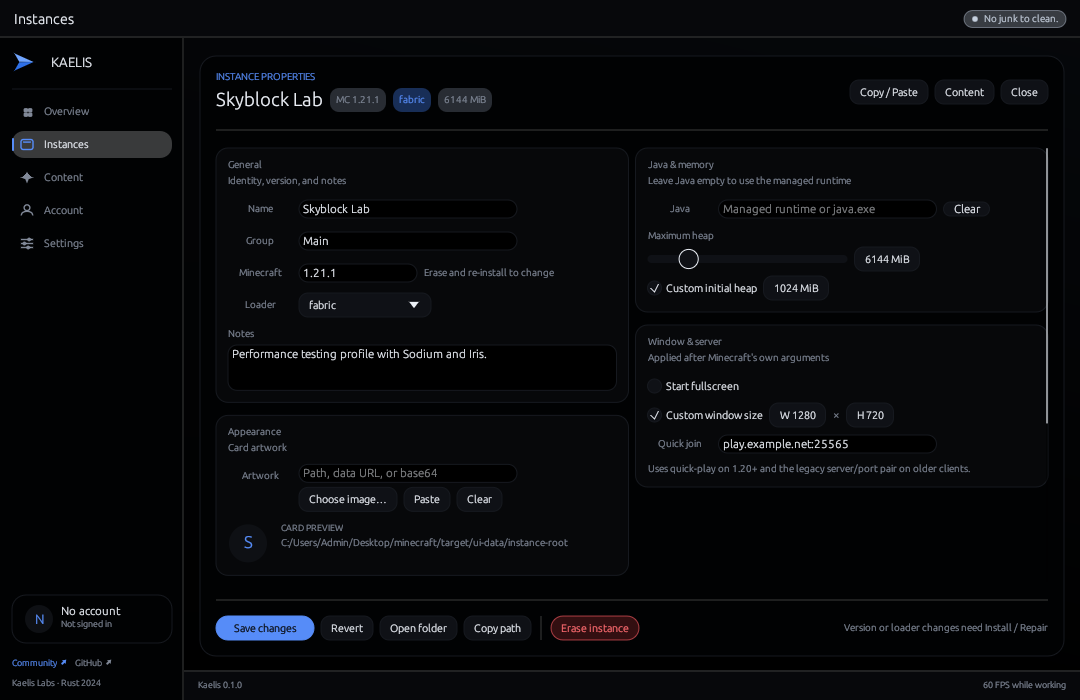
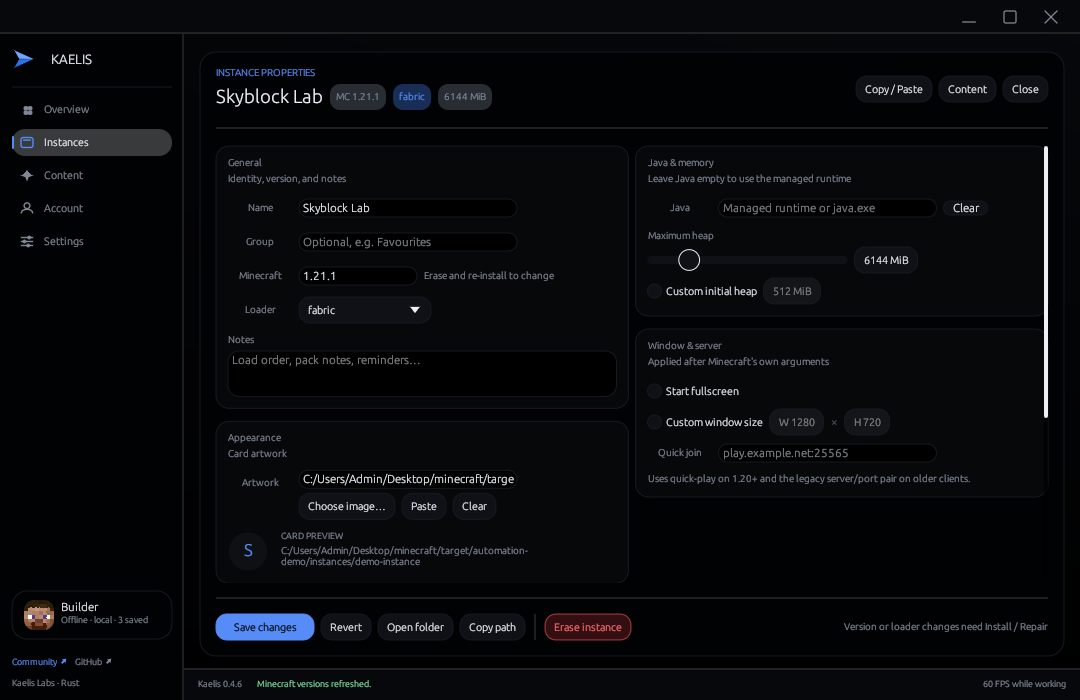
Refresh site previews from the 0.4.6 release build.
Every still now comes from the tagged 0.4.6 binary, so the status bar and
About card show the current version, and the Account tab keeps its three
real rows instead of a migrated duplicate.

🤖 Generated with Codebuff

diff --git a/README.md b/README.md
@@ -185,7 +185,7 @@ notes below are kept as history.
   DLLs are never reused, and extraction is published with one rename so a
   cancelled launch leaves no half-written cache behind.
 - **The benchmark table is visual.** The product page charts the measured
-  0.3.7 → 0.4.0 numbers, keeps all six real screenshots, and reveals sections
+  0.3.7 → 0.4.0 numbers, keeps all seven real screenshots, and reveals sections
   on scroll without a framework or a third-party request.
 - **Sponsorship is direct and labelled.** GitHub Sponsors is linked from the
   repository and the page, with one hand-reviewed sponsor slot and no ad
